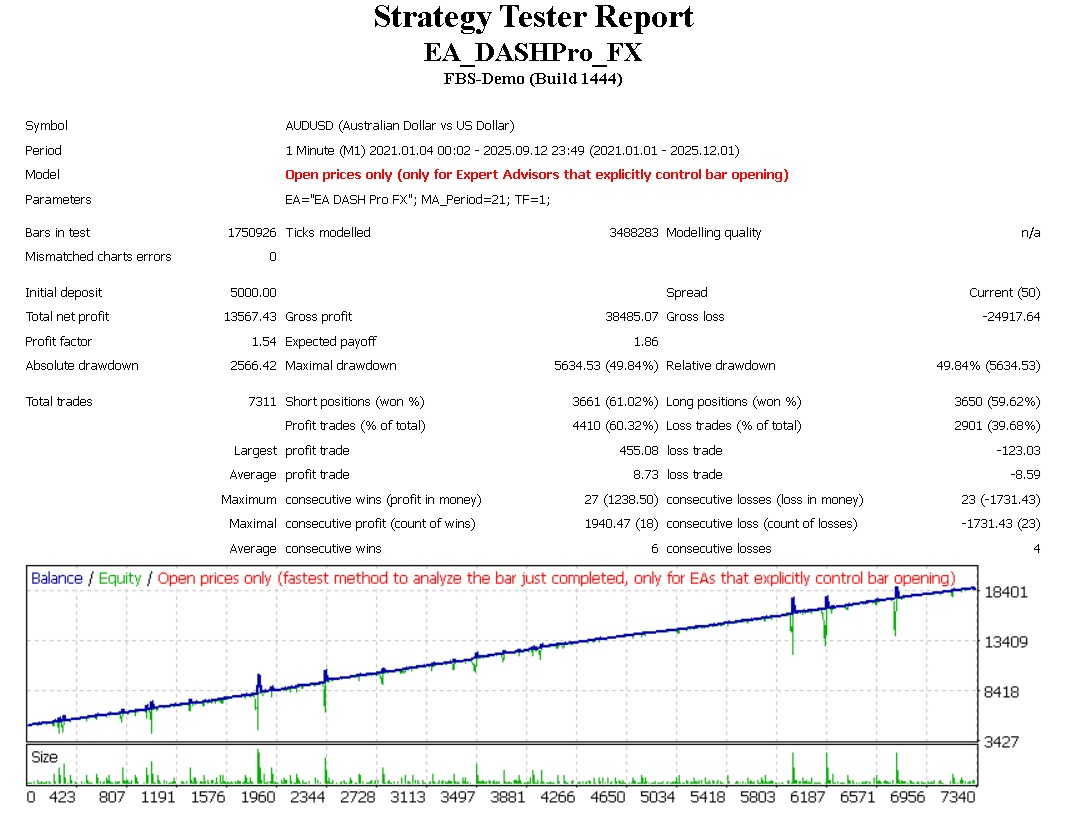
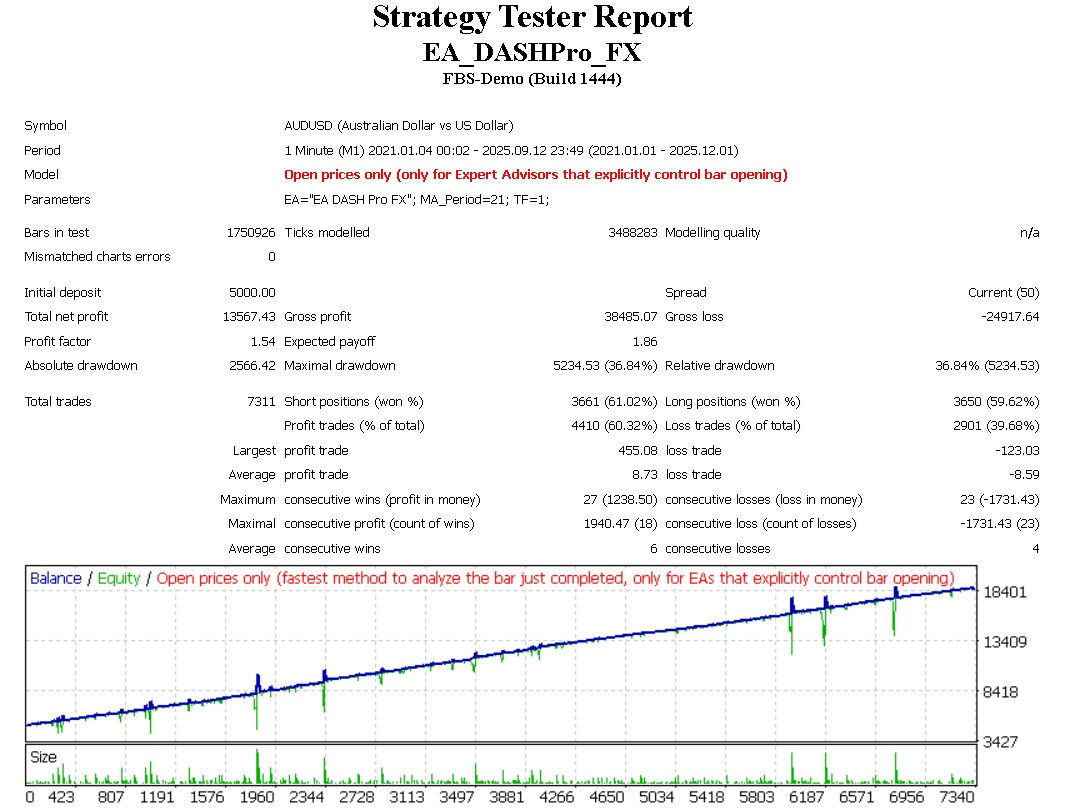
Add files via upload

diff --git a/index.htm b/index.htm
@@ -184,8 +184,8 @@ section {
 }
 
 .equity2 {
-  height: 80px;
-  margin-top: 10px;
+  height: 50px;
+  margin-top: 5px;
   border-radius: 16px;
   border: 1px dashed var(--border);
   display: flex;
@@ -194,10 +194,10 @@ section {
   color: var(--muted);
 }
 .equity2 img {
-  max-height: 40px;
+  max-height: 30px;
   max-width: auto;
   filter: brightness(0.9);
-border-radius: 12px;
+  border-radius: 10px;
 
 }
 
@@ -356,7 +356,7 @@ footer {
   </div>
 <h2>Expert Advisor for Social Trading</h2>
   <p>
-    Automated Forex and Gold Trading using professionally designed strategies, proven through 5–15 years+ of backtesting and real trading plan experience.
+    Automated Forex and Gold Trading using professionally designed strategies, proven through 5–15 years+ of backtesting and real trading plan experience
     
   </p>
   <a href="#what" class="btn">What DASH Pro Trade?</a>
@@ -414,7 +414,7 @@ footer {
 <section id="features">
   <div class="section-title">
     <h2>Why DASH Pro?</h2>
-    <h3>Built for Consistency & Capital Protection</h3><p>Powered by a professional-grade automated trading plan system</p>
+    <h3>Built for Consistency & Capital Protection</h3><p>Backed by a proven, professional-grade automated trading system built on disciplined trading strategies</p>
   </div>
 
   <div class="grid">
@@ -502,10 +502,8 @@ footer {
     <!--Backtest Equity Curve / Report Image Here-->
 <img src="gold1.jpg" alt="DASH Pro GOLD"/>
   </div>
-
-
+<br>
 Historical Backtest Results Covering 15+ Years : <a href="StrategyTester-DASHProGold-M30.htm" style="color: lightblue;"><b>DASH Pro GOLD</b></a>
-
 
     </div>
 
@@ -579,7 +577,7 @@ Historical Backtest Results Covering 15+ Years : <a href="StrategyTester-DASHPro
       <p>Total Net Profit</p>
     </div>
     <div class="stat">
-      <h3>49%</h3>
+      <h3>36%</h3>
       <p>Max Drawdown</p>
     </div>
     <div class="stat">
@@ -607,7 +605,7 @@ Historical Backtest Results Covering 15+ Years : <a href="StrategyTester-DASHPro
       <p>Total Net Profit</p>
     </div>
     <div class="stat">
-      <h3>44%</h3>
+      <h3>32%</h3>
       <p>Max Drawdown</p>
     </div>
     <div class="stat">
@@ -632,13 +630,18 @@ Historical Backtest Results Covering 15+ Years : <a href="StrategyTester-DASHPro
 
 <div class="equity2">
 <img src="mql5.png" alt="DASH Pro GOLD MQL5"/><br>
-    &nbsp; MQL 5 Link (Historical Live Performance) -> &nbsp;
+    &nbsp; Historical Live Performance &nbsp;
 <br>
-&nbsp;&nbsp;&nbsp;&nbsp; <a href="https://www.mql5.com/en/signals/2351003" style="color: yellow;"><b>DASH Pro GOLD Exness</b></a>
-&nbsp;&nbsp; | &nbsp;&nbsp;<a href="https://www.mql5.com/en/signals/2351004" style="color: Crimson;"><b>DASH Pro GOLD XM</b></a><br> 
 
   </div>
 
+  <div class="equity2">
+   
+<a href="https://www.mql5.com/en/signals/2351003" style="color: yellow;"><b>DASH Pro GOLD Exness</b></a>
+&nbsp;&nbsp; | &nbsp;&nbsp;<a href="https://www.mql5.com/en/signals/2351918" style="color: yellow;"><b>DASH Pro FX Exness</b></a>
+&nbsp;&nbsp; | &nbsp;&nbsp;<a href="https://www.mql5.com/en/signals/2351004" style="color: Crimson;"><b>DASH Pro GOLD XM</b></a>
+&nbsp;&nbsp; | &nbsp;&nbsp;<a href="https://www.mql5.com/en/signals/2351919" style="color: Crimson;"><b>DASH Pro FX XM</b></a><br> 
+  </div>
 
 </section>
 
@@ -665,6 +668,10 @@ Historical Backtest Results Covering 15+ Years : <a href="StrategyTester-DASHPro
     <div class="broker">
      <a href="https://www.xmidbroker.org/referral?token=rkywchtQcAxOkTN1FLTWHQ"> <img src="xm.jpg" alt="XM"></a>
     </div>
+	
+	 <div class="broker">
+       <img src="hfm.jpg" alt="HFM">
+    </div>
   </div>
 </section>
 
@@ -675,17 +682,30 @@ Historical Backtest Results Covering 15+ Years : <a href="StrategyTester-DASHPro
   <p>Join traders who use our EA, featuring transparent backtested performance and full compatibility with your preferred broker. 
 
 <br><br>
-<p>Click here to register with the broker :</p><br>
+<p>Click the link below to register with your preferred broker :</p><br>
 
 <a href="https://one.exnessonelink.com/a/mxwsw19fyi" style="color: yellow;">Exness</a> <br><br> <a href="https://www.xmidbroker.org/referral?token=rkywchtQcAxOkTN1FLTWHQ" style="color: Crimson;">XM</a> 
 <br>
+<!--br><a href="https://www.xmidbroker.org/referral?token=rkywchtQcAxOkTN1FLTWHQ" style="color: lightblue;">HFM</a-->
+<br>
+
+<br>
+<p>Join our EA on the Social Trading platform (Copy Trade Broker) </p><br>Click the link below to get started (Some links may allow access using a VPN) : <br><br>
+
+<a href="https://social-trading.exness.com/strategy/110581408" style="color: yellow;">DASH Pro GOLD Exness</a> <br>
+<br> <a href="https://social-trading.exness.com/strategy/110582620" style="color: yellow;">DASH Pro FX Exness</a> <br>
 
 <br><br>
-<p>Join our EA on the Social Trading platform (Copy Trade Broker) <br>– click the link to get started (Some links may allow access using a VPN) :</p> <br><br>
-
-<a href="https://social-trading.exness.com/strategy/110581408" style="color: yellow;">DASH Pro GOLD Exness</a> <br><br> <a href="https://social.tp-redirect.com/s/JgjZQxgj" style="color: Crimson;">DASH Pro GOLD XM </a> 
+<a href="https://social.tp-redirect.com/s/JgjZQxgj" style="color: Crimson;">DASH Pro GOLD XM </a> <br>
+<br> <a href="https://social.tp-redirect.com/s/elyYj2lL" style="color: Crimson;">DASH Pro FX XM </a> <br>
 
 <br><br>
+<p><font style="color: white;">HFM Cent Account – Recommended for Beginners :</font></p><br><a href="https://my.hfm.com/en/copy-trading/provider-details?provider=66235300" style="color: lightblue;"><b>DASH Pro GOLD HFM</b></a><br>
+<br> <a href="https://my.hfm.com/en/copy-trading/provider-details?provider=66235396" style="color: lightblue;"><b>DASH Pro FX HFM</b></a>
+<br>
+<br><br>
+
+
 <br>For Assistance and further information :</p>
   <br>
   <a href="https://wa.me/+6281322497686" class="btn">WhatsApp Support</a>
